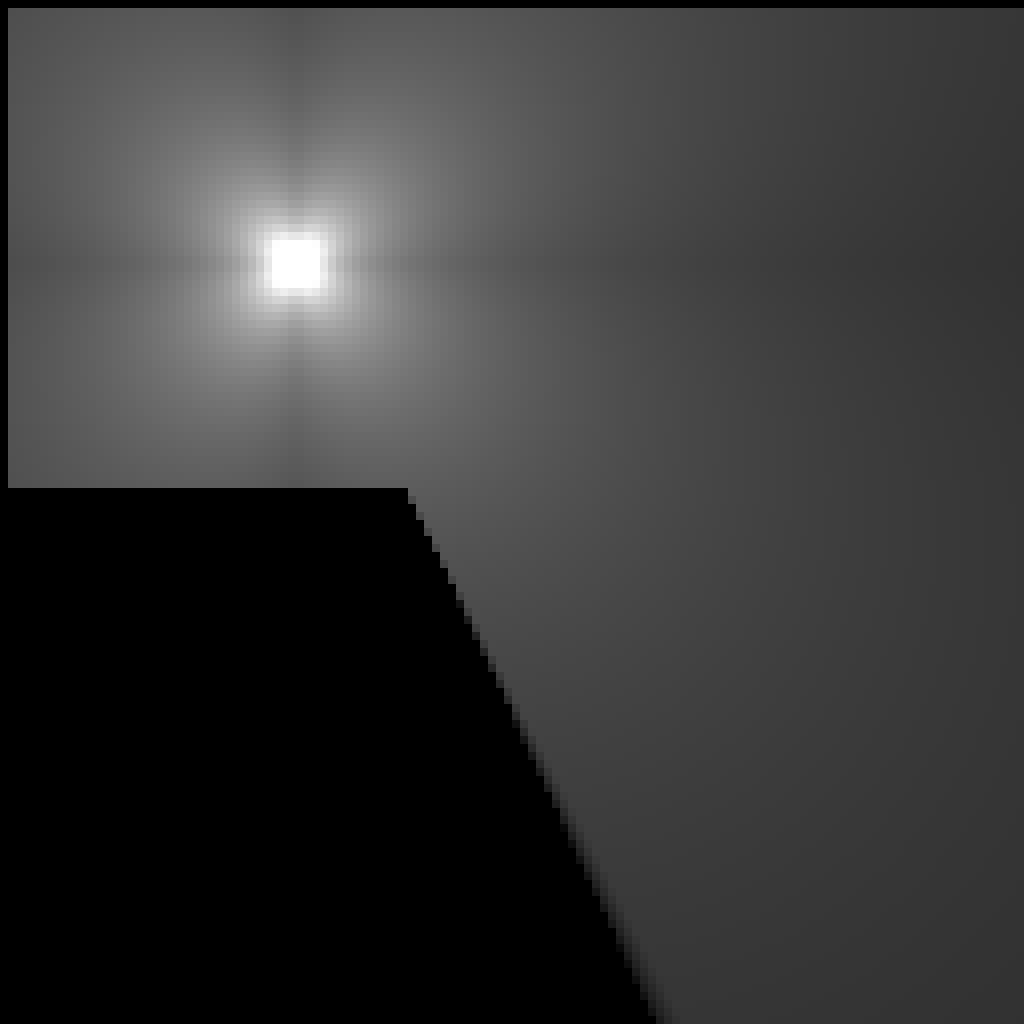
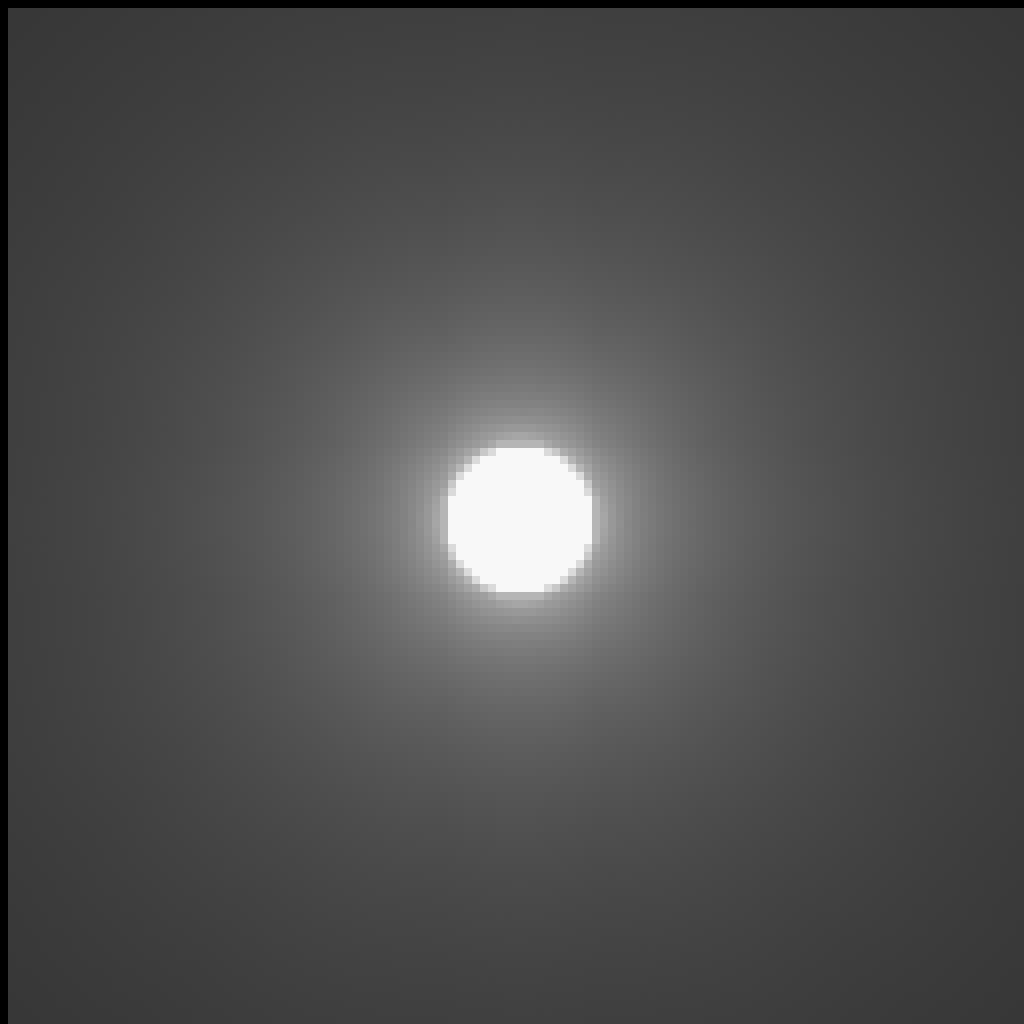
scene update

diff --git a/src/bin/offline.rs b/src/bin/offline.rs
@@ -3,8 +3,8 @@
 use std::path::PathBuf;
 use std::process::exit;
 
-use clap::Parser;
 use clap::builder::{PossibleValuesParser, TypedValueParser};
+use clap::{Parser, ValueEnum};
 use glam::{IVec2, Vec2};
 use image::{GrayImage, Luma};
 use twilight::extension::PixelScene;
@@ -17,7 +17,7 @@ use twilight::scene::{Emitter, Scene};
 const SIZE: u32 = 128;
 
 #[derive(Parser)]
-#[command(about = "Renders the example scene to a PNG without a browser")]
+#[command(about = "Renders a scene to an image.")]
 struct Args {
     /// Output path
     #[arg(short, long, default_value = "render.png")]
@@ -55,7 +55,7 @@ struct Args {
     simplify_occlusion: bool,
 
     /// Path trace the pixel scene used by --ext
-    #[arg(short = 't', long)]
+    #[arg(long)]
     pt: bool,
 
     /// Rays per probe when path tracing
@@ -75,21 +75,72 @@ struct Args {
             .map(|name| name.parse::<MergeMode>().unwrap()),
     )]
     merge_mode: MergeMode,
+
+    /// Pixel scene used by --ext and --pt
+    #[arg(long, value_enum, default_value_t = SceneKind::PixelShadow)]
+    scene: SceneKind,
 }
 
-fn pixel_scene() -> PixelScene {
+#[derive(Clone, Copy, ValueEnum)]
+enum SceneKind {
+    BlockShadow,
+    PixelShadow,
+    CircleLight,
+}
+
+impl SceneKind {
+    fn build(self) -> PixelScene {
+        match self {
+            SceneKind::BlockShadow => block_shadow(),
+            SceneKind::PixelShadow => pixel_shadow(),
+            SceneKind::CircleLight => circle_light(),
+        }
+    }
+}
+
+fn block_shadow() -> PixelScene {
     let mut scene = PixelScene::new();
 
     let pos = IVec2::new(36, 32);
-    for i in 0..1 {
-        for j in 0..1 {
-            scene.insert(pos + IVec2::new(i, j), 5.0);
+    for i in 0..3 {
+        for j in 0..3 {
+            scene.insert(pos + IVec2::new(i, j), 2.5);
         }
     }
 
     for i in 0..50 {
         scene.insert(IVec2::new(i, 60), 0.0);
     }
+
+    scene
+}
+
+fn pixel_shadow() -> PixelScene {
+    let mut scene = PixelScene::new();
+
+    let pos = IVec2::new(36, 32);
+    scene.insert(pos, 5.0);
+
+    for i in 0..50 {
+        scene.insert(IVec2::new(i, 60), 0.0);
+    }
+
+    scene
+}
+
+fn circle_light() -> PixelScene {
+    let mut scene = PixelScene::new();
+
+    let pos = IVec2::new(128 / 2, 128 / 2);
+    for i in -10..=10 {
+        for j in -10..=10 {
+            let offset = IVec2::new(i, j);
+            if offset.length_squared() < 95 {
+                scene.insert(pos + IVec2::new(i, j), 0.3);
+            }
+        }
+    }
+
     scene
 }
 
@@ -107,12 +158,13 @@ fn main() {
         directions,
         seed,
         merge_mode,
+        scene,
     } = Args::parse();
 
     let radiance = if pt {
-        render_pt(&pixel_scene(), RenderPtSettings { directions, seed })
+        render_pt(&scene.build(), RenderPtSettings { directions, seed })
     } else if ext {
-        render_ext::<DirectionalPosition, Inverse2>(&pixel_scene(), RenderExtSettings { simplify_occlusion })
+        render_ext::<DirectionalPosition, Inverse2>(&scene.build(), RenderExtSettings { simplify_occlusion })
     } else {
         let settings = RenderSettings { frustum_start, skip_linear, pretrace, merge_mode };
         radiance.render(
